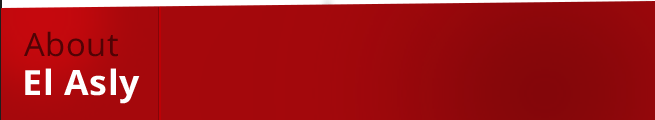
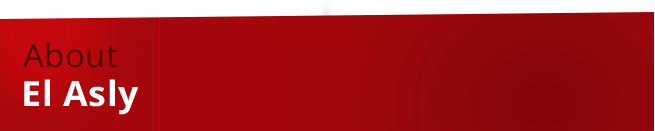
reduce homepage height

Changed region(s): [[0.0, 0.0, 1.0, 0.15], [0.0305, 0.575, 0.2137, 0.875], [0.0305, 0.275, 0.1832, 0.525]]

diff --git a/layout/css/asly.css b/layout/css/asly.css
@@ -64,12 +64,12 @@ body{
 }
 
 .search{
-    margin-top: 35px;
+    margin-top: 20px;
     color: #c2c2c2;
     font-size: 13px;
     font-weight: bold;
     margin-left: 15px;
-    margin-bottom: 18px;
+    margin-bottom: 10px;
 }
 
 .left-section .search-separator {
@@ -80,10 +80,10 @@ body{
 }
 
 .left-section .menu{
-    margin-top: 40px;	
+    margin-top: 10px;	
 }
 .left-section .menu li{
-    height: 49px;
+    height: 45px;
     padding: 0px;
 }
 .left-section .menu li:hover{
@@ -151,7 +151,7 @@ body{
 
 .right-section .banner{
     width: 996px;
-    height: 562px;
+    height: 520px;
     display: block;
 }
 
@@ -189,16 +189,16 @@ body{
     background-image: url(../images/home-about-bg.png);
     background-repeat: no-repeat;
     width: 655px;
-    height: 120px;
+    height: 131px;
     display: block;
     float: left;
     position: absolute;
-    margin-top: -12px;
+    margin-top: -23px;
 }
 .right-section .home-about-us .about-us-text {
     font-size: 12px;
     margin-left: 183px;
-    margin-top: 24px;
+    margin-top: 38px;
     margin-right: 10px;
     color: #FFF;
 }

diff --git a/application/views/frontend/template.php b/application/views/frontend/template.php
@@ -43,6 +43,8 @@
                         <li class="separator"></li>
                         <li><a href=""><?php echo lang('menu_career'); ?></a></li>
                         <li class="separator"></li>
+                        <li><a href=""><?php echo lang('menu_contact_us'); ?></a></li>
+                        <li class="separator"></li>
                     </ul>
 
                     <div class="subscribe">SUBSCRIBE TO <div>OUR NEWLETTER</div></div>

diff --git a/application/views/frontend/homepage.php b/application/views/frontend/homepage.php
@@ -1,7 +1,7 @@
 <script type="text/javascript">
     $(document).ready(function () {
         $('#slideshowHolder').jqFancyTransitions({
-            width: 996, height: 562, delay: 3000, strips: 20, navigation: true
+            width: 996, height: 520, delay: 3000, strips: 20, navigation: true
         });
     });
 </script>

diff --git a/application/language/en-us/global_lang.php b/application/language/en-us/global_lang.php
@@ -19,6 +19,7 @@ $lang['menu_home'] = 'Home';
 $lang['menu_about_us'] = 'About Us'; 
 $lang['menu_products'] = 'Products'; 
 $lang['menu_career'] = 'Careers'; 
+$lang['menu_contact_us'] = 'Contact Us'; 
 
 $lang['menu_about_us_profile'] = 'Profile';
 $lang['menu_about_us_mission'] = 'Mission & Values';
